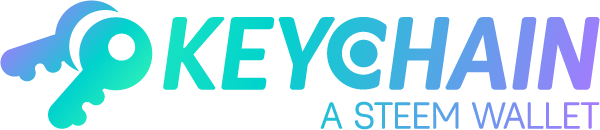
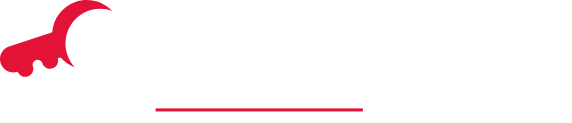
Added Support of Hive Keychain

diff --git a/src/components/VotingModal.vue b/src/components/VotingModal.vue
@@ -56,7 +56,7 @@
             <h6>{{ $t("keychain.voteLabel3") }}</h6>
             <b-form-group>
               <button
-                class="btn btn-light btn-sm"
+                class="btn btn-dark btn-sm"
                 type="submit"
                 variant="light"
               >
@@ -67,11 +67,11 @@
                 />
               </button>
               <button
-                @click="steemconnectVote(!voteStatus)"
-                class="btn btn-light btn-sm"
+                @click="hivesignerVote(!voteStatus)"
+                class="btn btn-dark btn-sm"
                 type="button"
                 variant="light"
-                v-if="steemconnect"
+                v-if="hivesigner"
               >
                 {{ $t("keychain.voteWithLabel") }}
                 <img
@@ -119,7 +119,7 @@ export default {
     userProp: String,
     voteStatusProp: Boolean,
     loggedInProp: Boolean,
-    steemconnect: Boolean,
+    hivesigner: Boolean,
     shareonsocial: Boolean
   },
   computed: {
@@ -135,8 +135,8 @@ export default {
   },
   methods: {
     witnessVoteKeychain(user) {
-      if (window.steem_keychain && user !== "") {
-        steem_keychain.requestWitnessVote(user, "dmitrydao", true, function(
+      if (window.hive_keychain && user !== "") {
+        hive_keychain.requestWitnessVote(user, "dmitrydao", true, function(
           response
         ) {
           if (response.success) {
@@ -149,7 +149,7 @@ export default {
         return [];
       }
     },
-    steemconnectVote(voteStatus) {
+    hivesignerVote(voteStatus) {
       if (this.user !== "") {
         window.open(
           `https://hivesigner.com/sign/update-proposal-votes?proposal_ids=[${this.proposalId}]&approve=${voteStatus}`
@@ -157,8 +157,8 @@ export default {
       }
     },
     keychainVote(user, voteStatus) {
-      if (window.steem_keychain && user !== "") {
-        steem_keychain.requestBroadcast(
+      if (window.hive_keychain && user !== "") {
+        hive_keychain.requestBroadcast(
           user,
           [
             [
@@ -185,8 +185,8 @@ export default {
       }
     },
     witnessVoteKeychain(user) {
-      if (window.steem_keychain && user !== "") {
-        steem_keychain.requestWitnessVote(user, "dmitrydao", true, function(
+      if (window.hive_keychain && user !== "") {
+        hive_keychain.requestWitnessVote(user, "dmitrydao", true, function(
           response
         ) {
           if (response.success) {

diff --git a/src/pages/CreateProposal/CreateProposalPage.vue b/src/pages/CreateProposal/CreateProposalPage.vue
@@ -109,7 +109,7 @@
             <p class="text-danger">
               <small>{{ $t("createProposal.feeLabel") }}</small>
             </p>
-            <button type="sumbit" class="btn btn-primary">
+            <button type="sumbit" class="btn btn-dark">
               {{ $t("common.submitWithButton")
               }}<img
                 class="icon-small ml-1"
@@ -144,16 +144,16 @@ export default {
     };
   },
   methods: {
-    createProposalSteemconnect() {
+    createProposalHivesigner() {
       event.target.reset();
       this.$router.push("/proposals");
       window.open(
-        `https://beta.steemconnect.com/sign/create-proposal?start_date=${this.form.start_date}&end_date=${this.form.end_date}&daily_pay=${this.form.dailypay}&subject=${this.form.subject}&permlink=${this.form.permlink}&creator=${this.form.creator}&receiver=${this.form.receiver}`
+        `https://hivesigner.com/sign/create-proposal?start_date=${this.form.start_date}&end_date=${this.form.end_date}&daily_pay=${this.form.dailypay}&subject=${this.form.subject}&permlink=${this.form.permlink}&creator=${this.form.creator}&receiver=${this.form.receiver}`
       );
     },
     createProposalKeychain(event) {
-      if (window.steem_keychain) {
-        steem_keychain.requestBroadcast(
+      if (window.hive_keychain) {
+        hive_keychain.requestBroadcast(
           this.form.creator,
           [
             [
@@ -163,7 +163,7 @@ export default {
                 receiver: this.form.receiver,
                 start_date: this.form.start_date,
                 end_date: this.form.end_date,
-                daily_pay: Number(this.form.dailypay).toFixed(3) + " SBD",
+                daily_pay: Number(this.form.dailypay).toFixed(3) + " HBD",
                 subject: this.form.subject,
                 permlink: this.form.permlink.replace(/^.*\/(.*)$/, "$1")
               }

diff --git a/src/components/WitnessVoteModal.vue b/src/components/WitnessVoteModal.vue
@@ -22,23 +22,23 @@
       </b-form-group>
       <b-form-group>
         <div class="mb-2">{{ $t("keychain.voteLabel4") }}</div>
-        <button class="btn-block btn btn-light" type="submmit" variant="light">
+        <button class="btn-block btn btn-dark" type="submmit" variant="light">
           {{ $t("keychain.voteWithLabel") }}
           <img
             class="icon-small ml-1"
-            src="@/assets/img/random/keychain2.png"
+            src="@/assets/img/random/keychain.png"
           />
         </button>
         <button
-          class="btn-block btn btn-light"
-          @click="witnessVoteSteemconnect()"
+          class="btn-block btn btn-dark"
+          @click="witnessVoteHivesigner()"
           type="button"
           variant="light"
         >
           {{ $t("keychain.voteWithLabel") }}
           <img
             class="icon-small ml-1"
-            src="@/assets/img/random/steemconnect.png"
+            src="@/assets/img/random/hivesigner.svg"
           />
         </button>
       </b-form-group>
@@ -62,8 +62,8 @@ export default {
   },
   methods: {
     witnessVoteKeychain(user) {
-      if (window.steem_keychain && user !== "") {
-        steem_keychain.requestWitnessVote(user, "dmitrydao", true, function(
+      if (window.hive_keychain && user !== "") {
+        hive_keychain.requestWitnessVote(user, "dmitrydao", true, function(
           response
         ) {
           if (response.success) {
@@ -76,9 +76,9 @@ export default {
         return [];
       }
     },
-    witnessVoteSteemconnect() {
+    witnessVoteHivesigner() {
       window.open(
-        `https://steemconnect.com/sign/account-witness-vote?witness=dmitrydao&approve=1`
+        `https://hivesigner.com/sign/account-witness-vote?witness=dmitrydao&approve=1`
       );
     }
   }

diff --git a/src/pages/Login/LoginPage.vue b/src/pages/Login/LoginPage.vue
@@ -24,14 +24,14 @@
               </b-form-group>
               <b-form-group>
                 <button
-                  class="btn-block btn btn-light"
+                  class="btn-block btn btn-dark"
                   type="submit"
                   variant="light"
                 >
                   {{ $t("common.loginLabel") }}
                   <img
                     class="icon-small ml-1"
-                    src="@/assets/img/random/keychain2.png"
+                    src="@/assets/img/random/keychain.png"
                   />
                 </button>
               </b-form-group>
@@ -75,8 +75,8 @@ export default {
   },
   methods: {
     loginKeychain(user) {
-      if (window.steem_keychain && user !== "") {
-        steem_keychain.requestSignBuffer(
+      if (window.hive_keychain && user !== "") {
+        hive_keychain.requestSignBuffer(
           user,
           `{login: "${user}"}`,
           "Active",

diff --git a/src/pages/Vote/VotePage.vue b/src/pages/Vote/VotePage.vue
@@ -12,7 +12,7 @@
         :userProp="user.name"
         :voteStatusProp="user.loggedIn ? isApproved(id) : voteStatus"
         :loggedInProp="user.loggedIn"
-        :steemconnect="false"
+        :hivesigner="false"
         :shareonsocial="false"
       />
     </b-modal>
@@ -61,7 +61,7 @@
                   </a>
                   <a
                     class="btn btn-app-store hover-translate-y-n3 mb-4 text-left"
-                    @click="steemconnectVote(true)"
+                    @click="hivesignerVote(true)"
                   >
                     <i
                       ><img
@@ -248,7 +248,7 @@ export default {
     };
   },
   methods: {
-    steemconnectVote(approve) {
+    hivesignerVote(approve) {
       window.open(
         `https://hivesigner.com/sign/update-proposal-votes?proposal_ids=[${this.id}]&approve=${approve}`
       );

diff --git a/src/pages/Proposals/ProposalsList.vue b/src/pages/Proposals/ProposalsList.vue
@@ -12,7 +12,7 @@
         :userProp="user.name"
         :voteStatusProp="user.loggedIn ? isApproved(proposalId) : voteStatus"
         :loggedInProp="user.loggedIn"
-        :steemconnect="true"
+        :hivesigner="true"
         :shareonsocial="true"
       />
     </b-modal>
